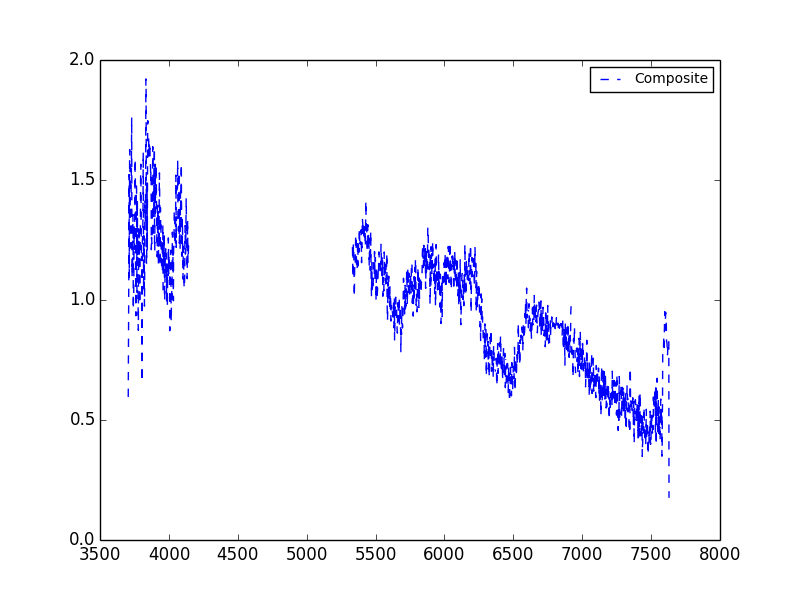
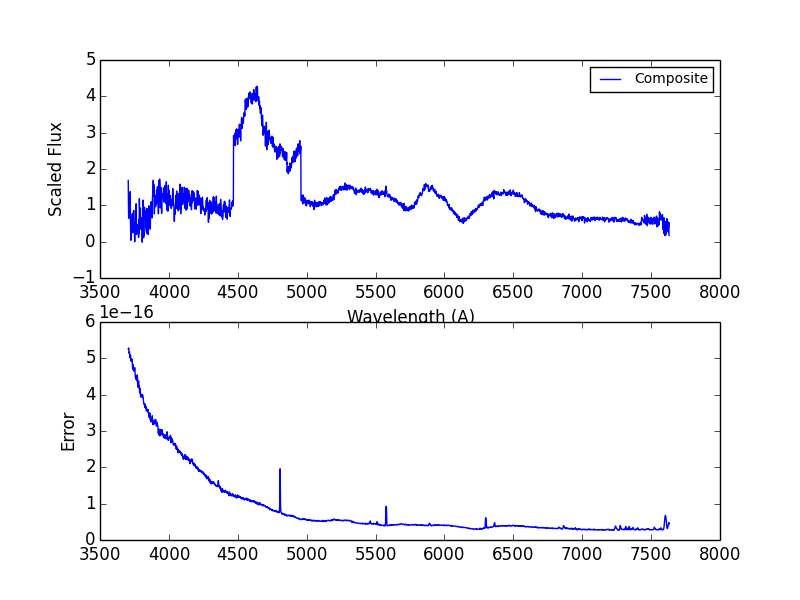
More tweaks
Now it makes an error plot too, which is nice.

diff --git a/personal/SamRubin/Averages.py b/personal/SamRubin/Averages.py
@@ -62,7 +62,7 @@ print len(SN_Array), "unique spectra found"
 print "Matching flux data..."
 j = 1
 
-for SN in SN_Array:
+for SN in SN_Array[0:50]:
     k = 1
     for filename in max_light:   
         if SN.filename in filename:
@@ -135,8 +135,15 @@ for SN in SN_Array:
         
     q += 1
 """composite"""
-
-plt.plot(compare_spectrum.wavelength, compare_spectrum.flux,'--',label='Composite')
+plt.figure(1)
+plt.subplot(211)
+plt.plot(compare_spectrum.wavelength, compare_spectrum.flux,label='Composite')
+plt.xlabel('Wavelength (A)')
+plt.ylabel('Scaled Flux')
+plt.subplot(212)
+plt.plot(compare_spectrum.wavelength, compare_spectrum.error, label='Error')
+plt.ylabel('Error')
+plt.subplot(211)
 plt.legend(prop={'size':10})
 plt.savefig('Average.png')
 plt.show()
